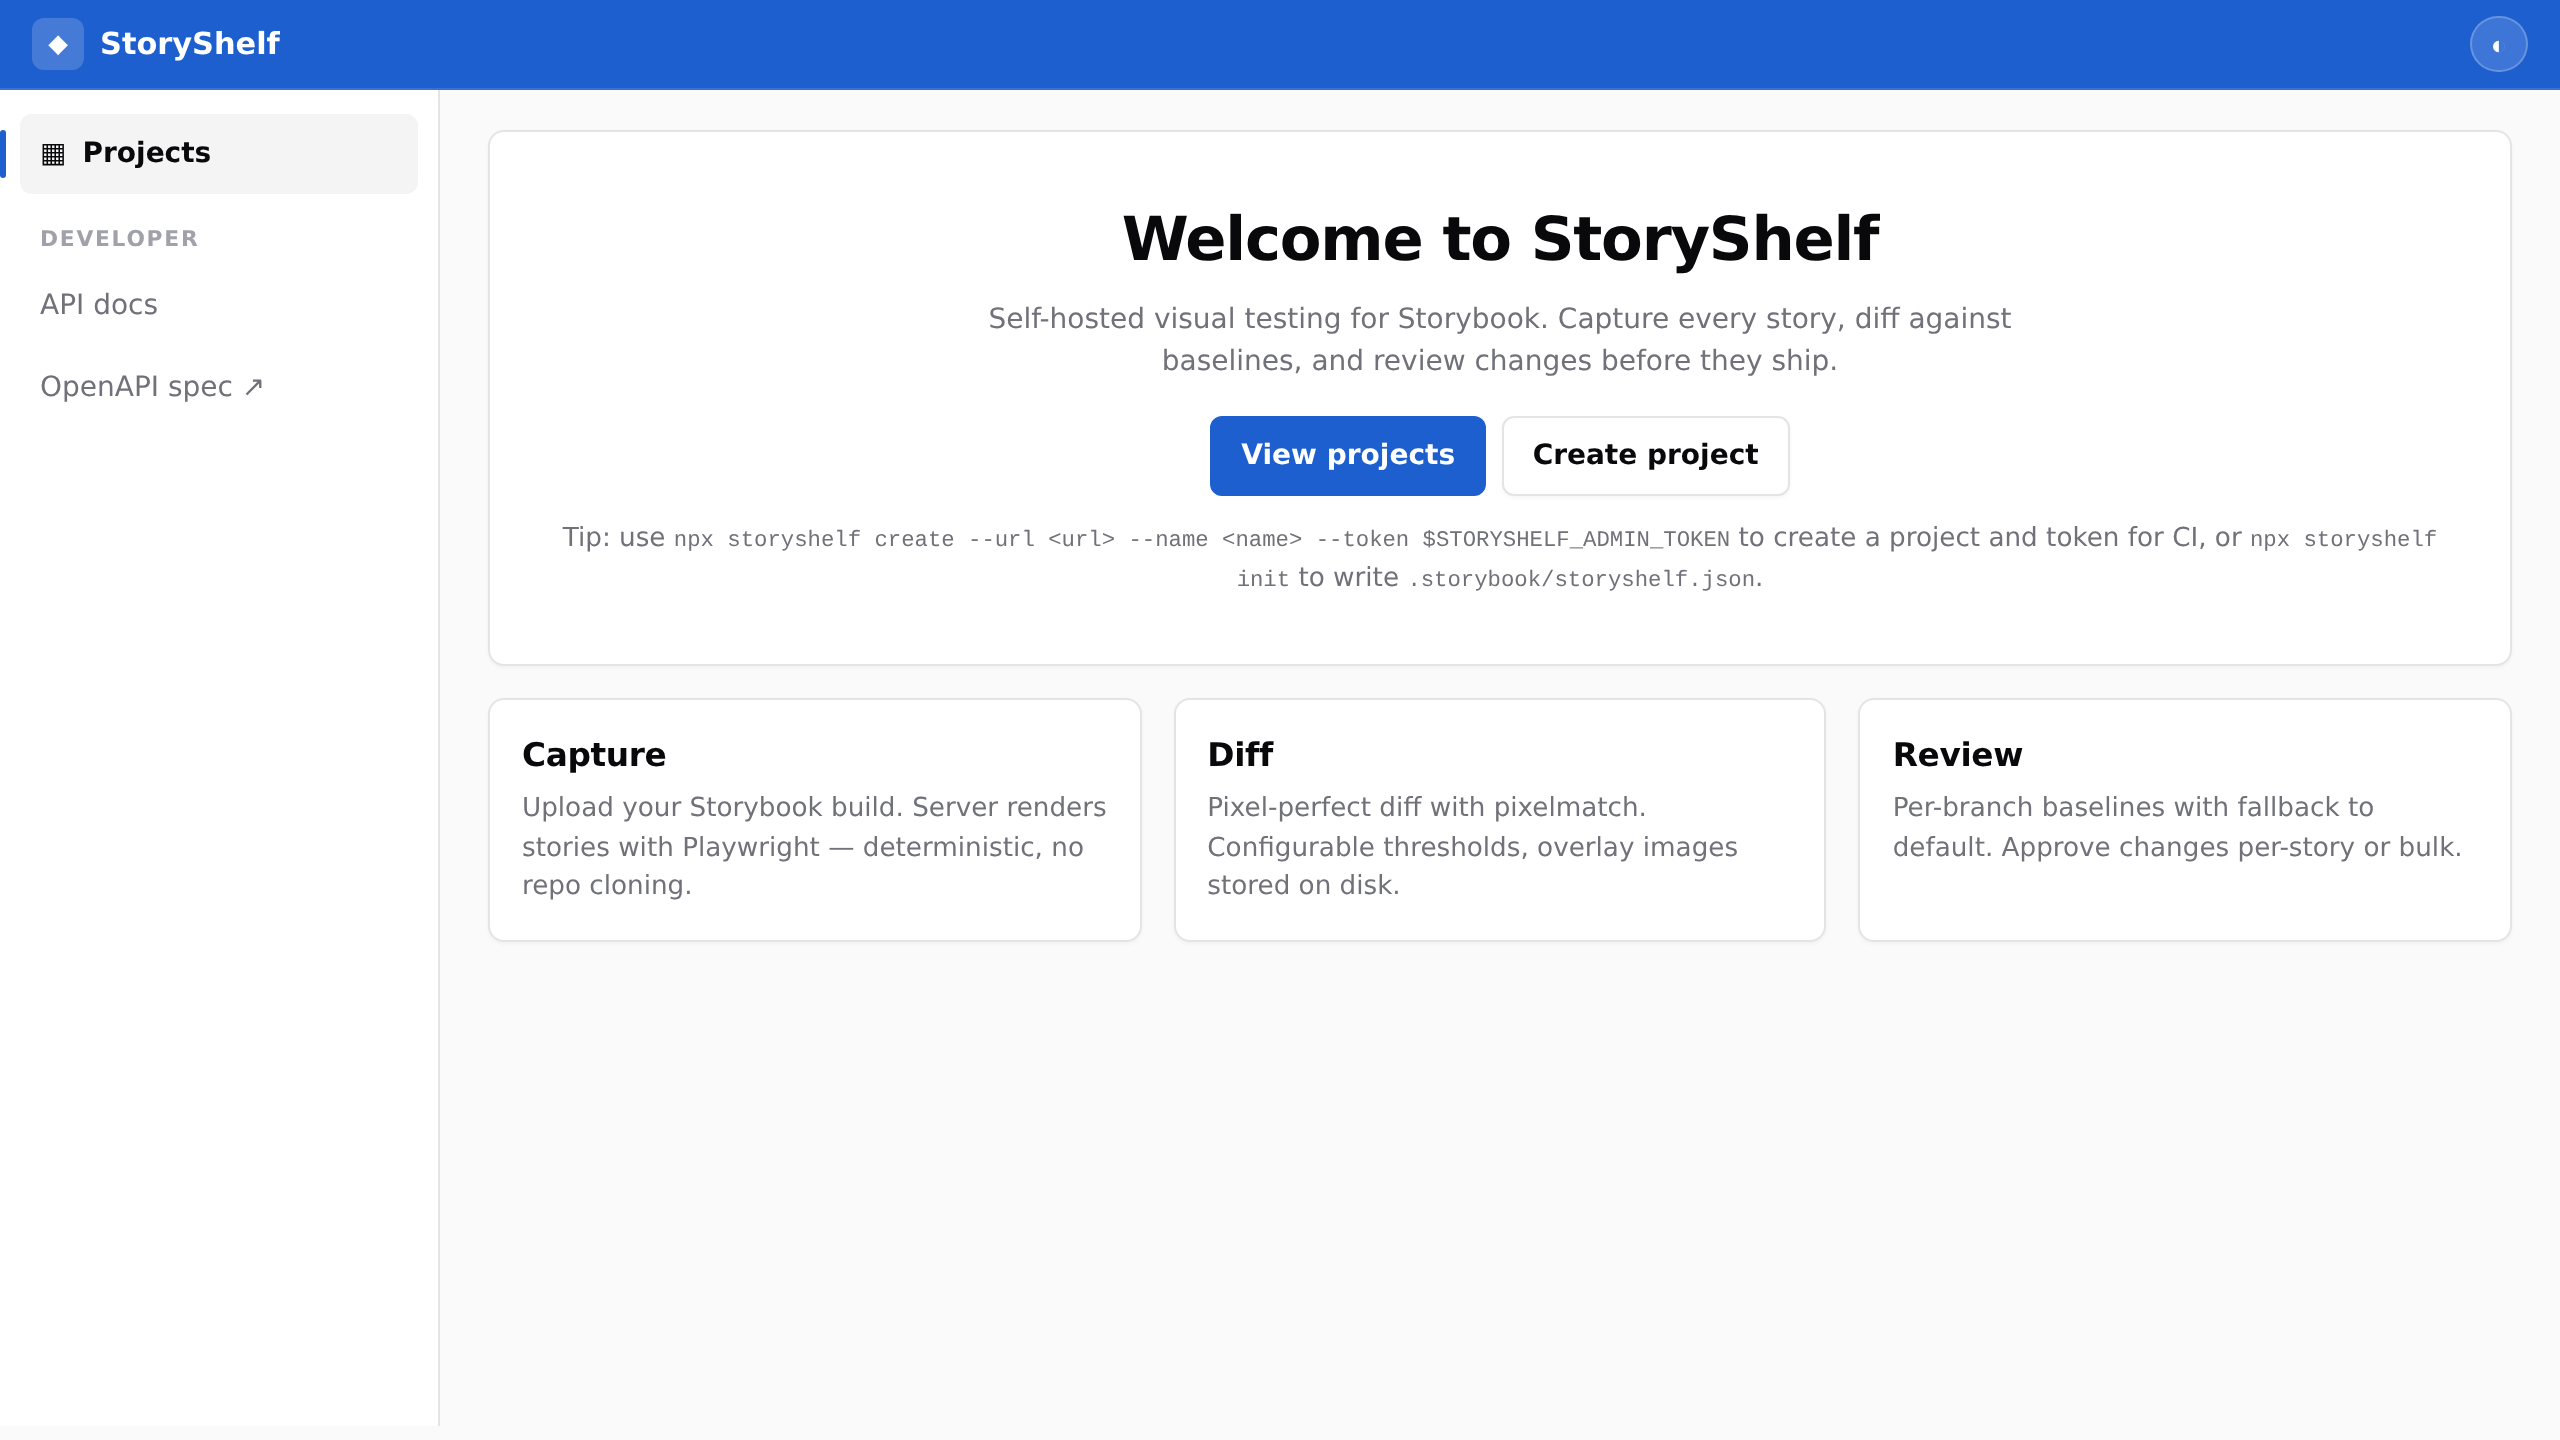
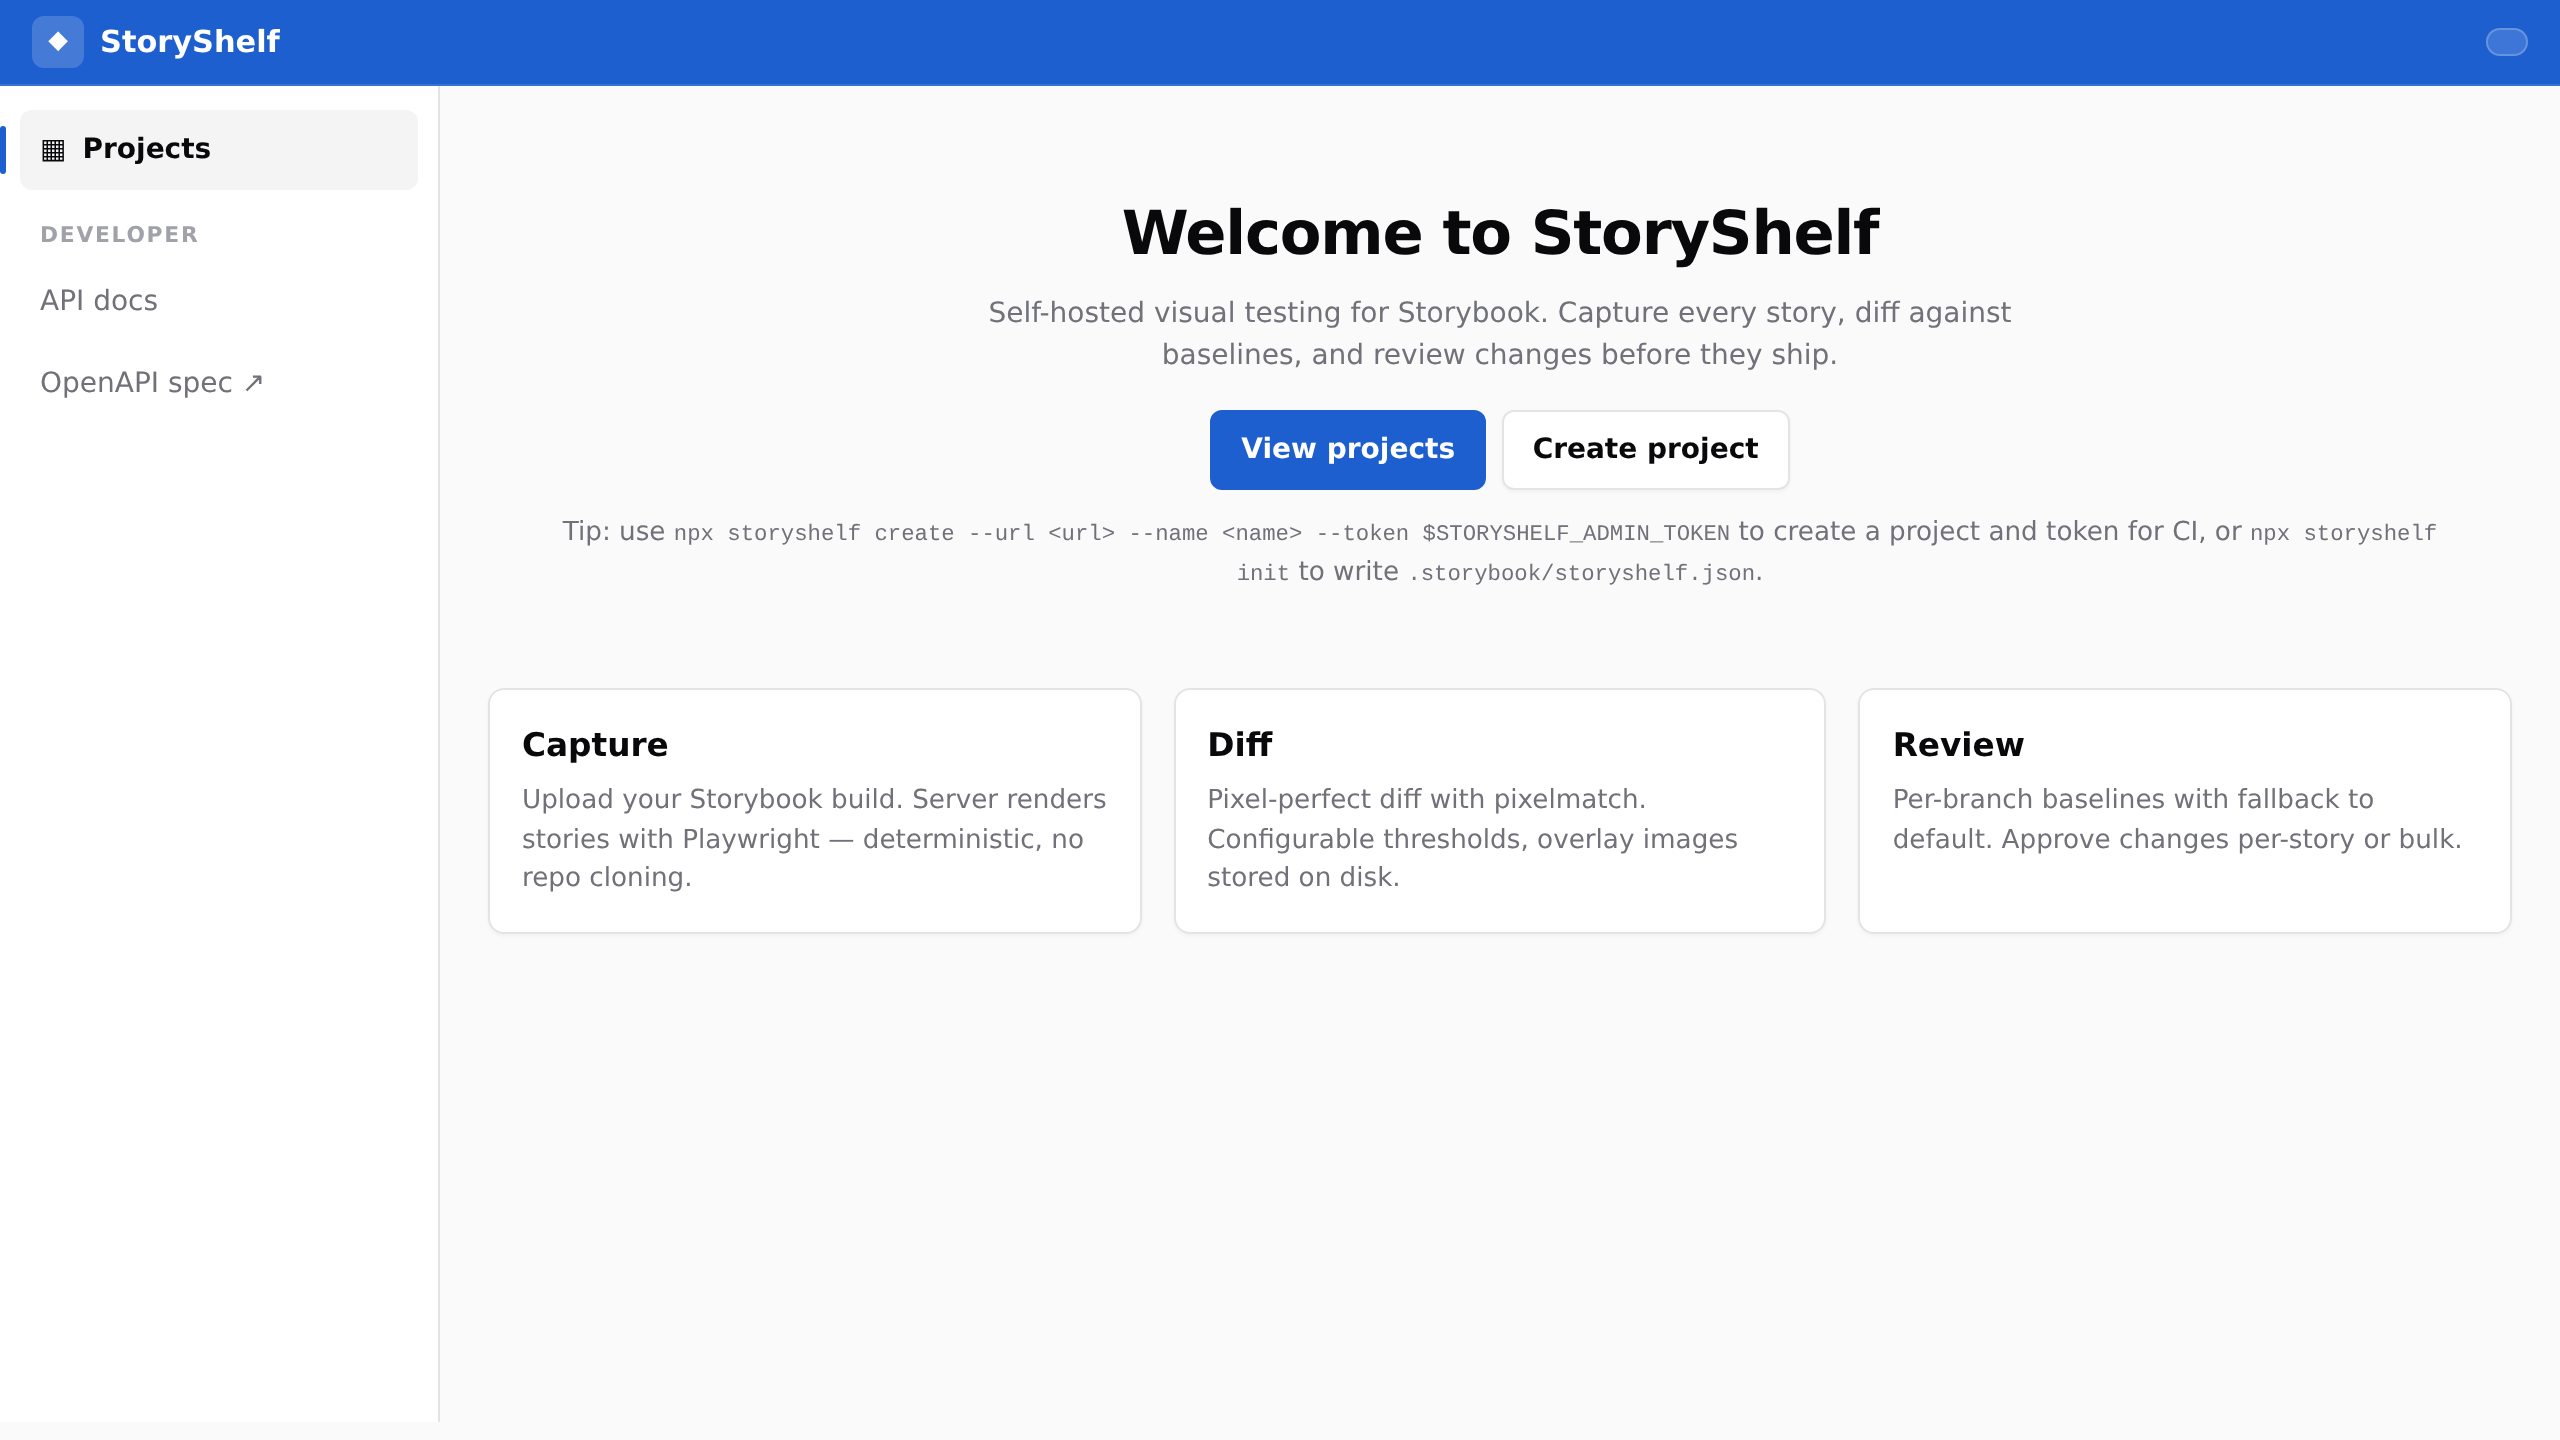
feat(ui): strict building blocks on hono/css (shell phase)
- Colocate topbar/sidebar/layout styles as subtree-scoped hono/css in document.tsx
- Keep global only truly-global rules (skip-link, theme-icon visibility)
- Delete styles/shell.ts

diff --git a/packages/app/src/ui/document.tsx b/packages/app/src/ui/document.tsx
@@ -1,7 +1,7 @@
 import type { FC } from "hono/jsx";
 import { getCsrfToken } from "../middleware/csrf.ts";
 import { getStore } from "../store.ts";
-import { Style } from "./css.ts";
+import { Style, css } from "./css.ts";
 import { baseStyle } from "./styles.ts";
 import { DARK_THEME, LIGHT_THEME } from "./theme.ts";
 
@@ -13,6 +13,259 @@ interface NavConfig {
   projectSlug?: string;
   projectName?: string;
 }
+
+/**
+ * App chrome styles, colocated with the shell that renders them.
+ *
+ * Each template scopes one subtree: top-level declarations style the
+ * hashed root itself, nested selectors style descendants (native CSS
+ * nesting). Truly global rules (skip-link, theme-icon visibility) stay in
+ * the global stylesheet (`styles/base.ts`, `styles/behavior.ts`).
+ */
+const shellTopbar = css`
+  /* shell-topbar */
+  position: sticky;
+  top: 0;
+  z-index: 40;
+  background: var(--topbar-bg);
+  color: #fff;
+  border-bottom: 1px solid rgba(255, 255, 255, 0.12);
+  .topbar__inner {
+    max-width: 1440px;
+    margin: 0 auto;
+    display: flex;
+    align-items: center;
+    justify-content: space-between;
+    gap: 1rem;
+    padding: 0.5rem 1rem;
+  }
+  .topbar__left,
+  .topbar__right {
+    display: flex;
+    align-items: center;
+    gap: 0.625rem;
+    min-width: 0;
+  }
+  .topbar__menu {
+    display: none;
+    background: transparent;
+    border: 1px solid rgba(255, 255, 255, 0.3);
+    color: #fff;
+    border-radius: var(--radius-sm);
+    padding: 0.5rem 0.75rem;
+    cursor: pointer;
+    min-height: 44px;
+    min-width: 44px;
+    align-items: center;
+    justify-content: center;
+  }
+  .brand {
+    display: inline-flex;
+    align-items: center;
+    gap: 0.5rem;
+    color: #fff;
+    font-weight: 650;
+    font-size: 0.95rem;
+    text-decoration: none;
+  }
+  .brand__mark {
+    width: 26px;
+    height: 26px;
+    display: inline-grid;
+    place-items: center;
+    background: rgba(255, 255, 255, 0.18);
+    border-radius: var(--radius-sm);
+    font-size: 0.8rem;
+  }
+  .logo {
+    border-radius: 6px;
+    display: block;
+  }
+  .project-crumb {
+    display: inline-flex;
+    align-items: center;
+    gap: 0.35rem;
+    color: rgba(255, 255, 255, 0.85);
+    font-size: 0.85rem;
+  }
+  .project-crumb a {
+    color: #fff;
+    text-decoration: underline;
+    text-underline-offset: 3px;
+  }
+  .project-crumb__sep {
+    opacity: 0.7;
+  }
+  .topbar__theme {
+    background: rgba(255, 255, 255, 0.14);
+    border: 1px solid rgba(255, 255, 255, 0.22);
+    color: #fff;
+    border-radius: 999px;
+    padding: 0.35rem 0.6rem;
+    cursor: pointer;
+    display: inline-flex;
+    gap: 0.25rem;
+  }
+  .topbar__theme [data-theme-icon] {
+    display: none;
+  }
+  .topbar__login {
+    background: #fff;
+    color: var(--accent);
+    padding: 0.4rem 0.75rem;
+    border-radius: 999px;
+    font-weight: 600;
+    font-size: 0.85rem;
+    text-decoration: none;
+  }
+  .user-menu {
+    display: inline-flex;
+    align-items: center;
+    gap: 0.5rem;
+    background: rgba(255, 255, 255, 0.14);
+    border: 1px solid rgba(255, 255, 255, 0.2);
+    padding: 0.2rem 0.5rem 0.2rem 0.3rem;
+    border-radius: 999px;
+    font-size: 0.85rem;
+  }
+  .user-menu__avatar {
+    width: 26px;
+    height: 26px;
+    border-radius: 999px;
+    object-fit: cover;
+    background: rgba(255, 255, 255, 0.2);
+  }
+  .user-menu__avatar--fallback {
+    display: inline-grid;
+    place-items: center;
+    font-weight: 700;
+    color: #fff;
+  }
+  .user-menu__name {
+    color: #fff;
+    font-weight: 600;
+    max-width: 12ch;
+    overflow: hidden;
+    text-overflow: ellipsis;
+    white-space: nowrap;
+  }
+  .user-menu__role {
+    font-size: 0.65rem;
+    text-transform: uppercase;
+    letter-spacing: 0.06em;
+    background: rgba(255, 255, 255, 0.2);
+    color: #fff;
+    padding: 0.15rem 0.4rem;
+    border-radius: 999px;
+  }
+  .user-menu__logout {
+    color: #fff;
+    font-size: 0.8rem;
+    text-decoration: underline;
+    text-underline-offset: 2px;
+    margin-left: 0.25rem;
+    background: none;
+    border: none;
+    cursor: pointer;
+    padding: 0;
+  }
+  @media (max-width: 880px) {
+    & .topbar__menu {
+      display: inline-flex;
+    }
+  }
+`;
+
+const shellSidebar = css`
+  /* shell-sidebar */
+  background: var(--sidebar-bg);
+  border-right: 1px solid var(--border);
+  padding: 0.75rem 0.625rem;
+  position: sticky;
+  top: 52px;
+  height: calc(100vh - 52px);
+  overflow: auto;
+  .sidebar__nav {
+    display: flex;
+    flex-direction: column;
+    gap: 1px;
+  }
+  .sidebar__section {
+    margin: 0.875rem 0 0.25rem;
+    font-size: 0.68rem;
+    font-weight: 600;
+    text-transform: uppercase;
+    letter-spacing: 0.08em;
+    color: var(--text-muted);
+    padding: 0 0.625rem;
+  }
+  .sidebar__link {
+    position: relative;
+    display: flex;
+    align-items: center;
+    gap: 0.5rem;
+    padding: 0.55rem 0.625rem;
+    border-radius: var(--radius-sm);
+    color: var(--text-secondary);
+    font-size: 0.875rem;
+    text-decoration: none;
+    min-height: 40px;
+  }
+  .sidebar__link:hover {
+    background: var(--surface-muted);
+    color: var(--text-primary);
+    text-decoration: none;
+  }
+  .sidebar__link--active {
+    background: var(--surface-muted);
+    color: var(--text-primary);
+    font-weight: 600;
+  }
+  .sidebar__link--active::before {
+    content: "";
+    position: absolute;
+    left: -0.625rem;
+    top: 20%;
+    bottom: 20%;
+    width: 3px;
+    border-radius: 999px;
+    background: var(--accent);
+  }
+  @media (max-width: 880px) {
+    & {
+      display: none;
+      position: fixed;
+      inset: 52px 0 0 0;
+      z-index: 30;
+      height: auto;
+    }
+    &.sidebar--open {
+      display: block;
+    }
+  }
+`;
+
+const shellLayout = css`
+  /* shell-layout */
+  max-width: 1440px;
+  margin: 0 auto;
+  display: grid;
+  grid-template-columns: var(--sidebar-width) 1fr;
+  min-height: calc(100vh - 52px);
+  .content {
+    padding: 1.25rem 1.5rem 2.5rem;
+    min-width: 0;
+    max-width: 1200px;
+  }
+  @media (max-width: 880px) {
+    & {
+      grid-template-columns: 1fr;
+    }
+    & .content {
+      padding: 1rem;
+    }
+  }
+`;
 
 // Hono's JSX.Element is typed as `HtmlEscapedString | Promise<...>`, so JSX-returning
 // Functions can legitimately return a promise; the rule is a false positive here.
@@ -48,7 +301,7 @@ export const DocumentLayout: FC<{ title: string; nav?: NavConfig; children?: unk
           Skip to content
         </a>
         <TopBar name={name} logo={ui.logo} nav={nav} />
-        <div class="shell">
+        <div class={shellLayout}>
           <Sidebar nav={nav} />
           <main id="main-content" class="content" tabindex={-1}>
             {children}
@@ -64,7 +317,7 @@ export const DocumentLayout: FC<{ title: string; nav?: NavConfig; children?: unk
 // eslint-disable-next-line promise-function-async -- JSX component return type
 const TopBar: FC<{ name: string; logo?: string; nav?: NavConfig }> = ({ name, logo, nav }) => {
   return (
-    <header class="topbar" role="banner">
+    <header class={shellTopbar} role="banner">
       <div class="topbar__inner">
         <div class="topbar__left">
           <button
@@ -160,7 +413,7 @@ const AuthMenu: FC = () => {
 // eslint-disable-next-line promise-function-async -- JSX component return type
 const Sidebar: FC<{ nav?: NavConfig }> = ({ nav }) => {
   return (
-    <aside id="sidebar" class="sidebar" aria-label="Primary">
+    <aside id="sidebar" class={shellSidebar} aria-label="Primary">
       <nav class="sidebar__nav">
         <a
           class={`sidebar__link ${nav?.active === "projects" ? "sidebar__link--active" : ""}`}

diff --git a/packages/app/src/ui/styles/styles.test.ts b/packages/app/src/ui/styles/styles.test.ts
@@ -10,7 +10,6 @@ describe("baseStyle", () => {
       "--ring",
       "--surface-card",
       "--text-primary",
-      ".sidebar__link--active",
       ".diff-grid",
       ".review-bar",
       ".segmented",
@@ -20,7 +19,7 @@ describe("baseStyle", () => {
     }
   });
 
-  it("no longer carries button, feedback, form, or layout styles (owned by hono/css)", () => {
+  it("no longer carries component styles (owned by hono/css)", () => {
     const css = baseStyle(LIGHT_THEME, DARK_THEME);
     expect(css).not.toContain(".btn--primary");
     expect(css).not.toContain(".tabs__link");
@@ -33,6 +32,8 @@ describe("baseStyle", () => {
     expect(css).not.toContain(".card--padded");
     expect(css).not.toContain(".page-header__title");
     expect(css).not.toContain(".breadcrumbs ol");
+    expect(css).not.toContain(".sidebar__link--active");
+    expect(css).not.toContain(".topbar__inner");
   });
 
   it("honors custom brand accent overrides", () => {

diff --git a/packages/app/src/ui/styles/behavior.ts b/packages/app/src/ui/styles/behavior.ts
@@ -1,6 +1,6 @@
 /** Behavioral CSS: HTMX indicators, skeletons, tables, stats. */
 export function behaviorCss(): string {
-  return `${htmxCss()}\n${dataCss()}`;
+  return `${htmxCss()}\n${dataCss()}\n${chromeCss()}`;
 }
 
 function htmxCss(): string {
@@ -29,4 +29,10 @@ function dataCss(): string {
     .grid--2 { grid-template-columns: repeat(2, minmax(0, 1fr)); }
     .grid--3 { grid-template-columns: repeat(3, minmax(0, 1fr)); }
     @media (max-width: 880px) { .grid--2, .grid--3 { grid-template-columns: 1fr; } }`;
+}
+
+/** Truly global chrome rules (depend on ancestors outside any one subtree). */
+function chromeCss(): string {
+  return `
+    [data-theme="light"] [data-theme-icon="light"], [data-theme="dark"] [data-theme-icon="dark"], [data-theme="system"] [data-theme-icon="system"] { display: inline; }`;
 }

diff --git a/packages/app/src/ui/styles.ts b/packages/app/src/ui/styles.ts
@@ -1,11 +1,10 @@
 import { baseCss } from "./styles/base.ts";
 import { behaviorCss } from "./styles/behavior.ts";
 import { reviewCss } from "./styles/review.ts";
-import { shellCss } from "./styles/shell.ts";
 import { tokenCss } from "./styles/tokens.ts";
 import type { BrandTheme } from "./theme.ts";
 
 /** Build the global CSS stylesheet from the light and dark brand themes. */
 export function baseStyle(light: BrandTheme, dark: BrandTheme): string {
-  return [tokenCss(light, dark), baseCss(), shellCss(), reviewCss(), behaviorCss()].join("\n");
+  return [tokenCss(light, dark), baseCss(), reviewCss(), behaviorCss()].join("\n");
 }

diff --git a/packages/app/src/ui/styles/base.ts b/packages/app/src/ui/styles/base.ts
@@ -25,7 +25,7 @@ function utilityCss(): string {
     .muted { color: var(--text-secondary); }
     .mono { font-family: ui-monospace, SFMono-Regular, Menlo, monospace; }
     .login { max-width: 360px; margin: 3rem auto; }
-    .login .btn { width: 100%; margin-top: 1rem; }
+    .login button { width: 100%; margin-top: 1rem; }
     .max-w-form { max-width: 880px; }
     .max-w-prose { max-width: 640px; }
     .table-gap { margin-top: .75rem; }
